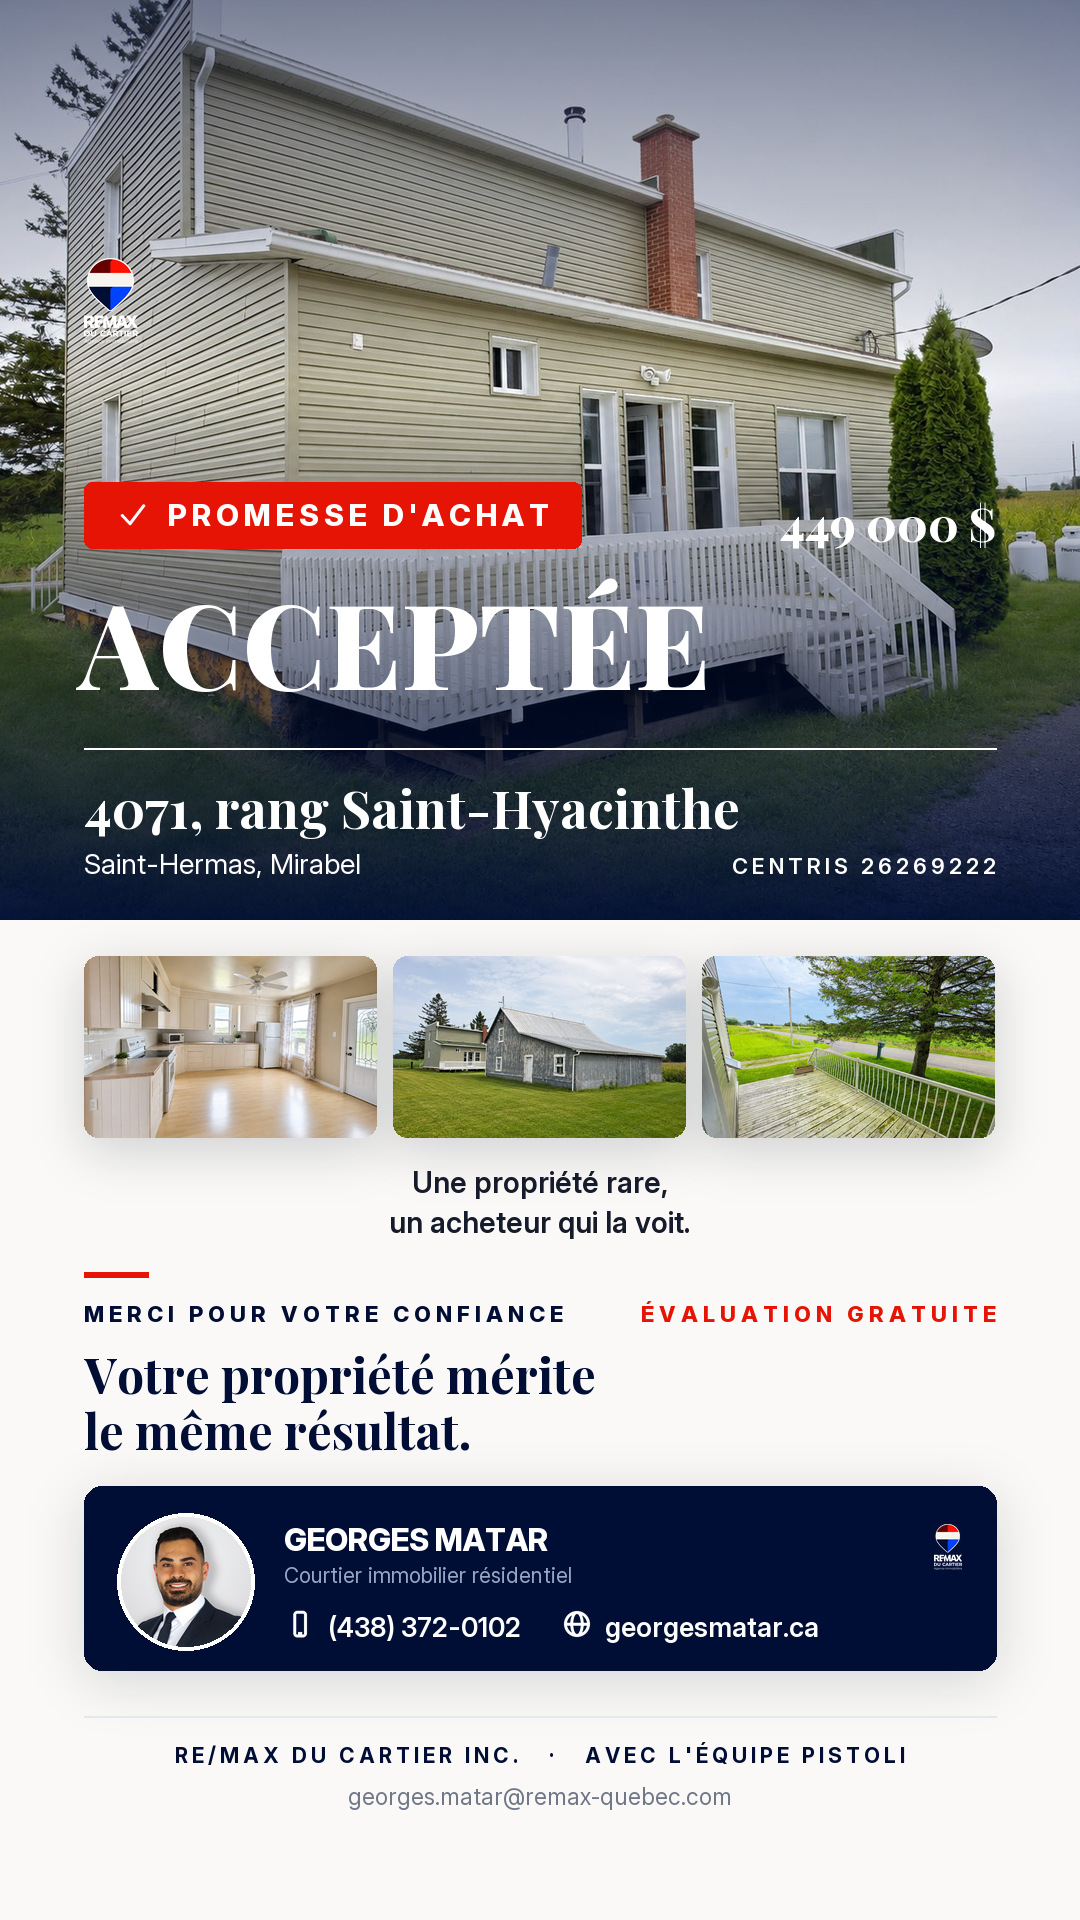
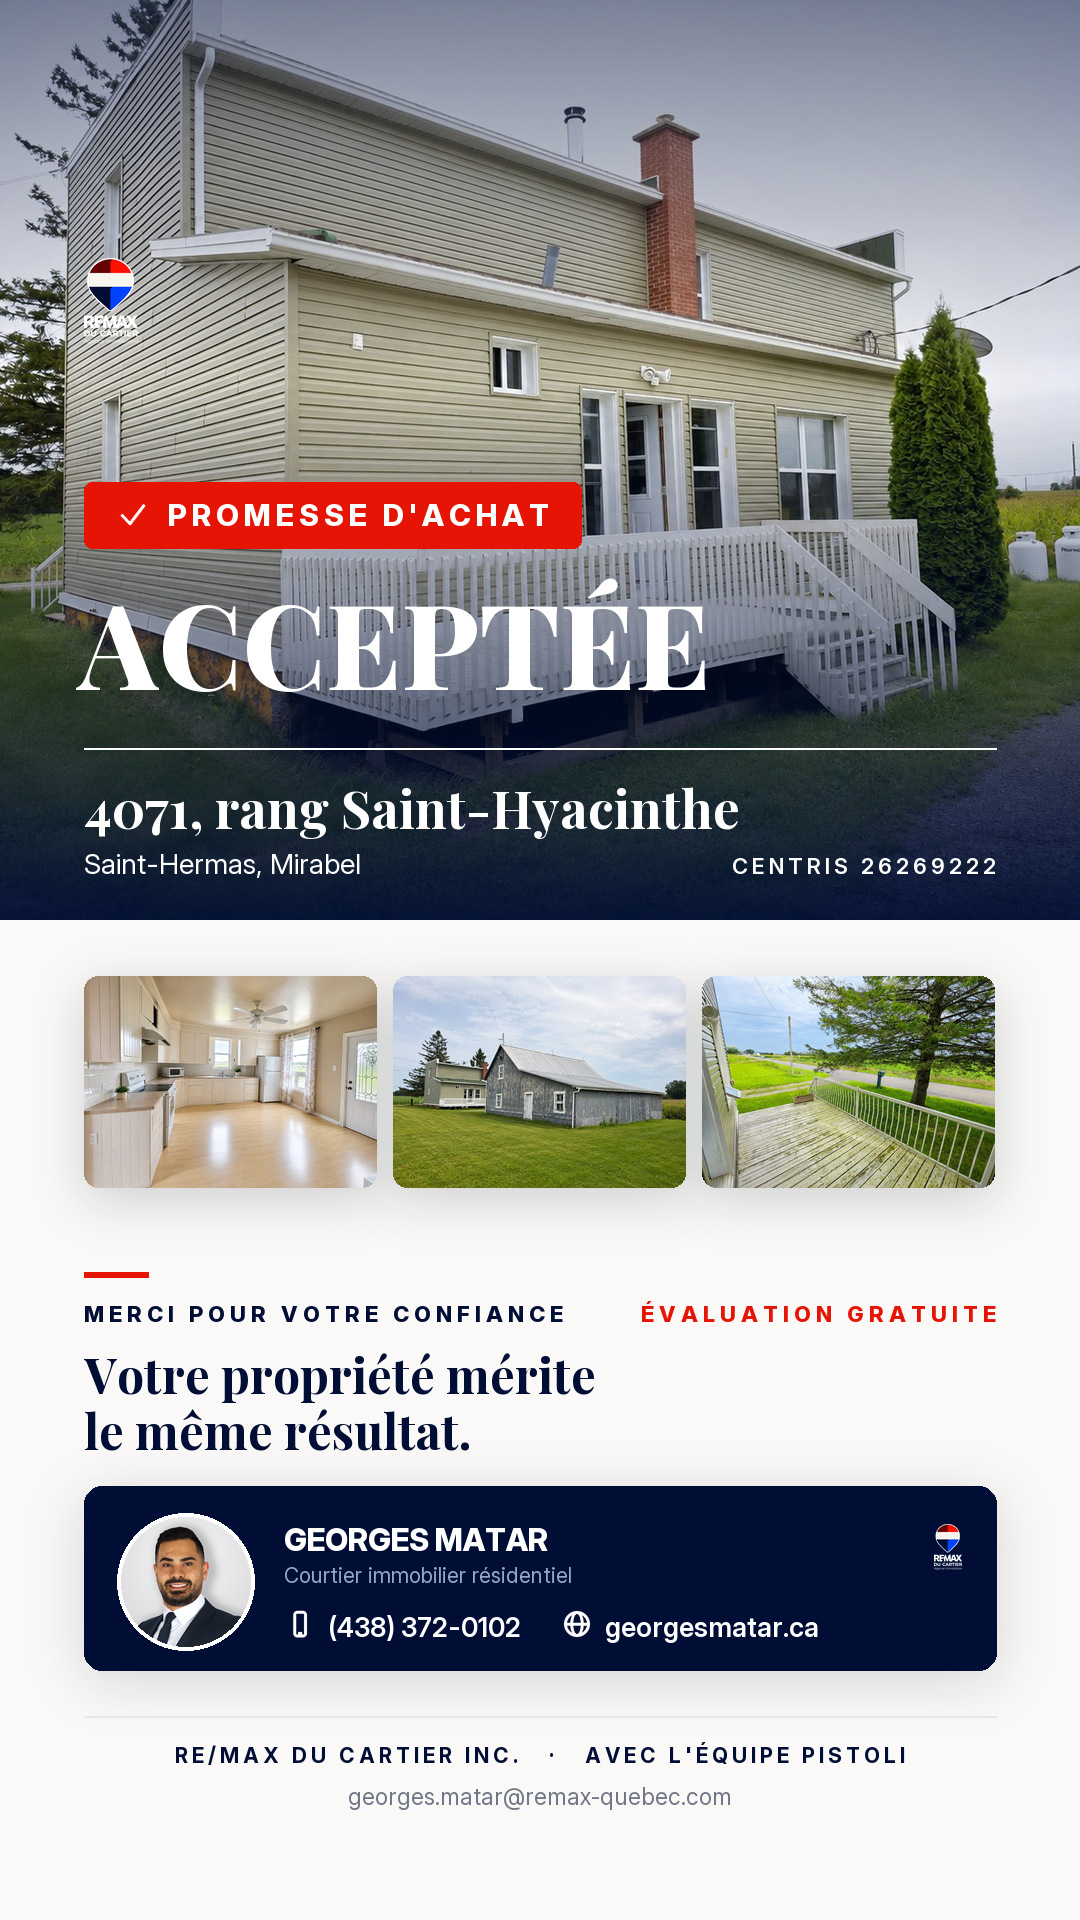
refactor: allege les stories, sans prix ni ligne de resume
Le prix disparait de la photo de couverture et les deux lignes sous le
bandeau de photos sont retirees. Les trois photos gagnent la place liberee.

Changed region(s): [[0.0611, 0.5, 0.9472, 0.6562], [0.7333, 0.25, 0.9167, 0.2812]]

diff --git a/PAC stories/generer-stories.py b/PAC stories/generer-stories.py
@@ -56,9 +56,8 @@ PROPRIETES = [
         slug="28-rue-st-hilaire-longueuil",
         adresse="28, rue St-Hilaire",
         secteur="Vieux-Longueuil, Longueuil",
-        prix="499 000 $", centris="26368231",
+        centris="26368231",
         hero=("03.jpg", 0.50, 0.42),
-        bandeau=["Une maison prête,", "un acheteur trouvé."],
         strip=[("09.jpg", 0.50, 0.50),
                ("06.jpg", 0.50, 0.50),
                ("24.jpg", 0.50, 0.50)],
@@ -69,9 +68,8 @@ PROPRIETES = [
         slug="4071-rang-saint-hyacinthe-mirabel",
         adresse="4071, rang Saint-Hyacinthe",
         secteur="Saint-Hermas, Mirabel",
-        prix="449 000 $", centris="26269222",
+        centris="26269222",
         hero=("25.jpg", 0.44, 0.55),
-        bandeau=["Une propriété rare,", "un acheteur qui la voit."],
         strip=[("06.jpg", 0.50, 0.50),
                ("27.jpg", 0.50, 0.55),
                ("28.jpg", 0.50, 0.28)],
@@ -337,9 +335,6 @@ def story(p):
 
     # ---- la nouvelle
     pastille(c, (M, 482), "PROMESSE D'ACHAT")
-    d.text((W - M, 492), p["prix"], font=playfair(46, 800), fill=WHITE,
-           anchor="ra")
-
     d.text((M - 6, 562), "ACCEPTÉE", font=playfair(118, 800), fill=WHITE)
 
     d.line([M, 748, W - M, 748], fill=(255, 255, 255, 96), width=2)
@@ -350,18 +345,12 @@ def story(p):
             (255, 255, 255, 176), 4, "r")
 
     # ---- trois photos de la propriete, en bandeau
-    gap, top, bh = 16, 956, 182
+    gap, top, bh = 16, 976, 212
     pw = (W - 2 * M - 2 * gap) // 3
     for i, (nom, fx, fy) in enumerate(p["strip"]):
         x = M + i * (pw + gap)
         photo(c, os.path.join(PHOTOS, p["slug"], nom),
               (x, top, x + pw, top + bh), r=14, fx=fx, fy=fy)
-
-    y = top + bh + 26
-    d.text((W // 2, y), p["bandeau"][0], font=inter(29, 600), fill=INK,
-           anchor="ma")
-    d.text((W // 2, y + 40), p["bandeau"][1], font=inter(29, 600), fill=INK,
-           anchor="ma")
 
     # ---- la relance: c est la que la story travaille pour le prochain mandat
     y = 1272

diff --git a/PAC stories/README.md b/PAC stories/README.md
@@ -14,10 +14,10 @@ de mandats: il montre un résultat, pas une intention.
 De haut en bas, dans l'ordre où l'oeil la lit en trois secondes:
 
 1. **La photo de façade**, plein cadre, avec la pastille rouge PROMESSE
-   D'ACHAT et le mot ACCEPTÉE en gros. Le prix demandé est à droite: c'est
-   l'information que le voisinage cherche.
+   D'ACHAT et le mot ACCEPTÉE en gros.
 2. **L'adresse, le secteur et le numéro Centris**, pour que la propriété soit
-   identifiable et vérifiable.
+   identifiable et vérifiable. Le prix n'apparaît pas: la nouvelle, c'est
+   l'entente, et une story chargée de chiffres se fait passer.
 3. **Trois photos de la propriété**, la cuisine, une pièce de vie et
    l'extérieur, pour rappeler ce qui a été vendu.
 4. **La relance.** MERCI POUR VOTRE CONFIANCE d'un côté, ÉVALUATION GRATUITE
@@ -48,9 +48,10 @@ Quelques secondes par image. Le script lit les photos dans
 `static/images/listings/<slug>/`, les mêmes que la fiche du site, et le
 portrait détouré dans `carrousel-instagram/sources/`.
 
-Tout se règle en haut de `generer-stories.py`: l'adresse, le secteur, le prix,
-le numéro Centris, la photo de couverture, les trois photos du bandeau et les
-deux lignes de texte propres à la propriété. Une photo est un triplet
+Tout se règle en haut de `generer-stories.py`: l'adresse, le secteur, le
+numéro Centris, la photo de couverture et les trois photos du bandeau. Les
+textes communs aux deux stories, `EYEBROW`, `RELANCE` et `TAG`, sont juste en
+dessous. Une photo est un triplet
 `(fichier, fx, fy)`, où `fx` et `fy` donnent le point d'intérêt du recadrage:
 `fy=0.28` remonte le cadre vers le haut de la photo, `fy=0.5` reste au centre.
 
